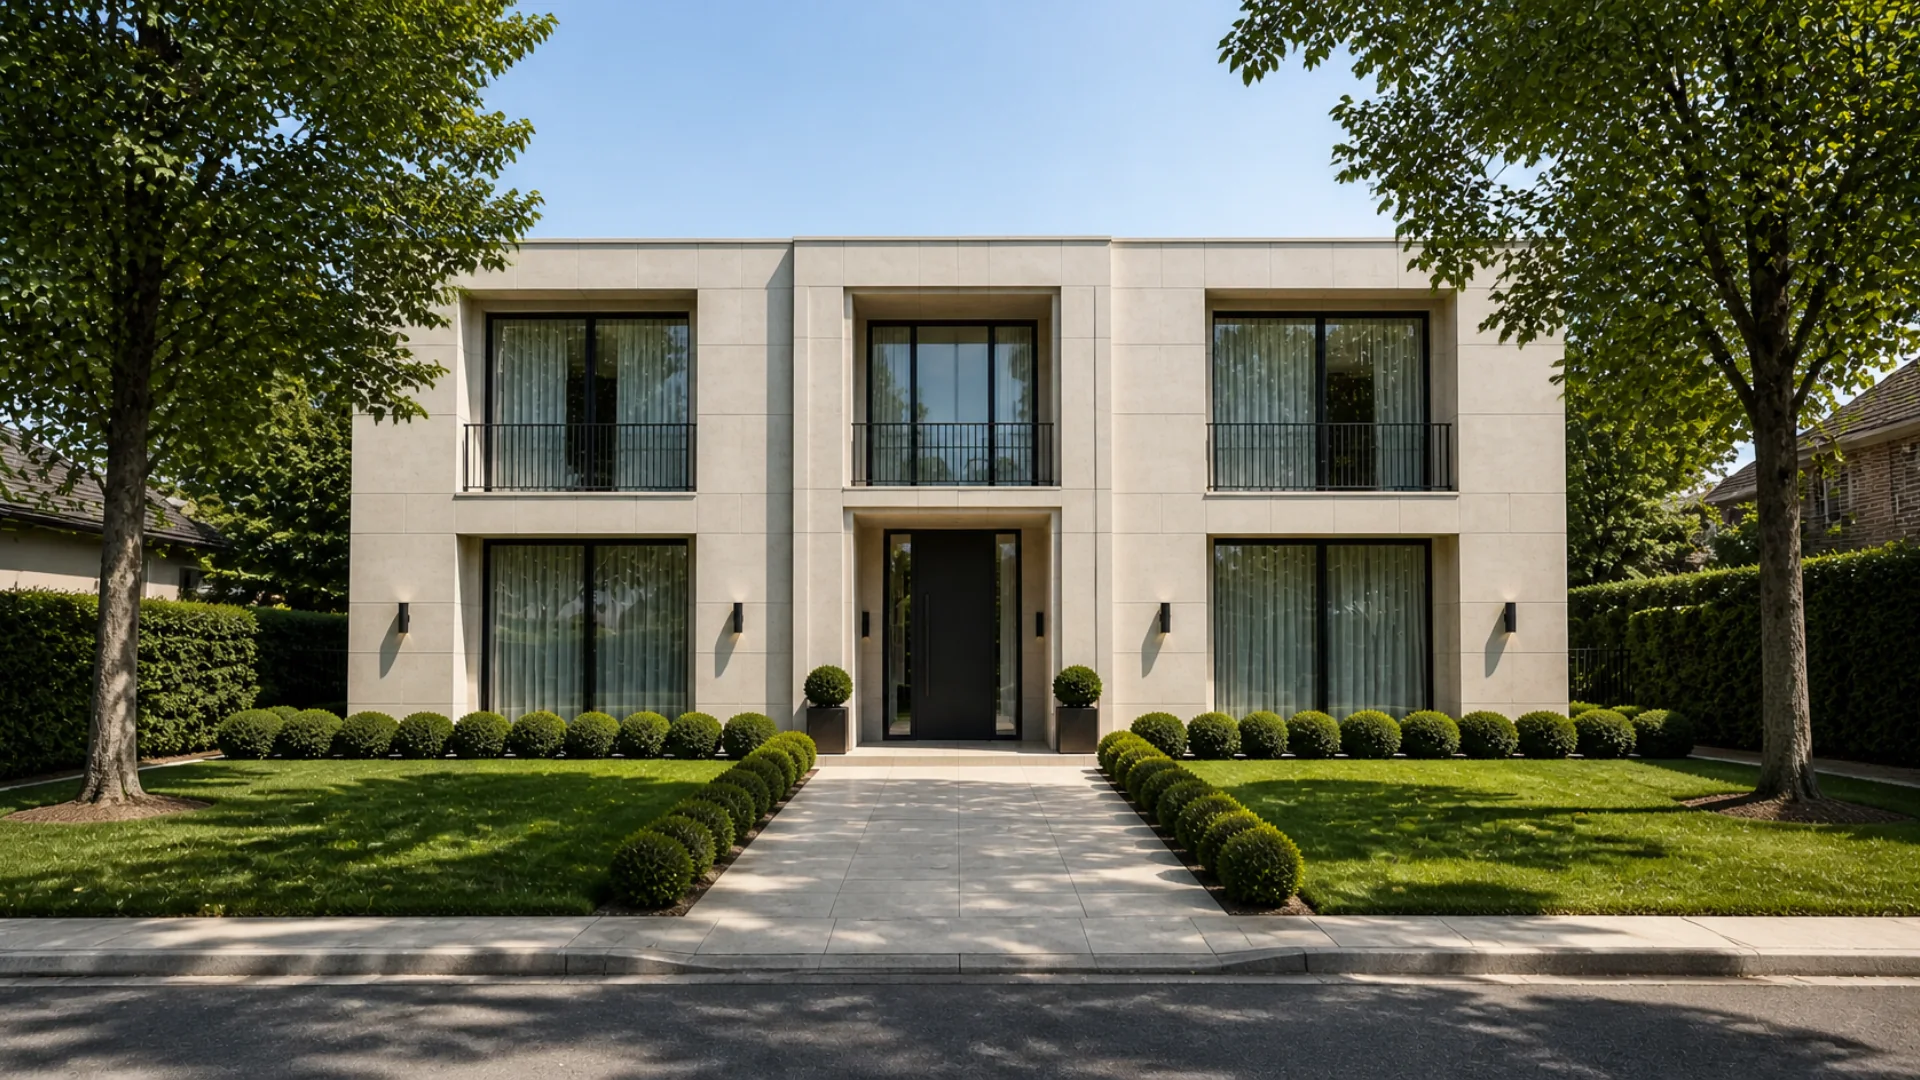
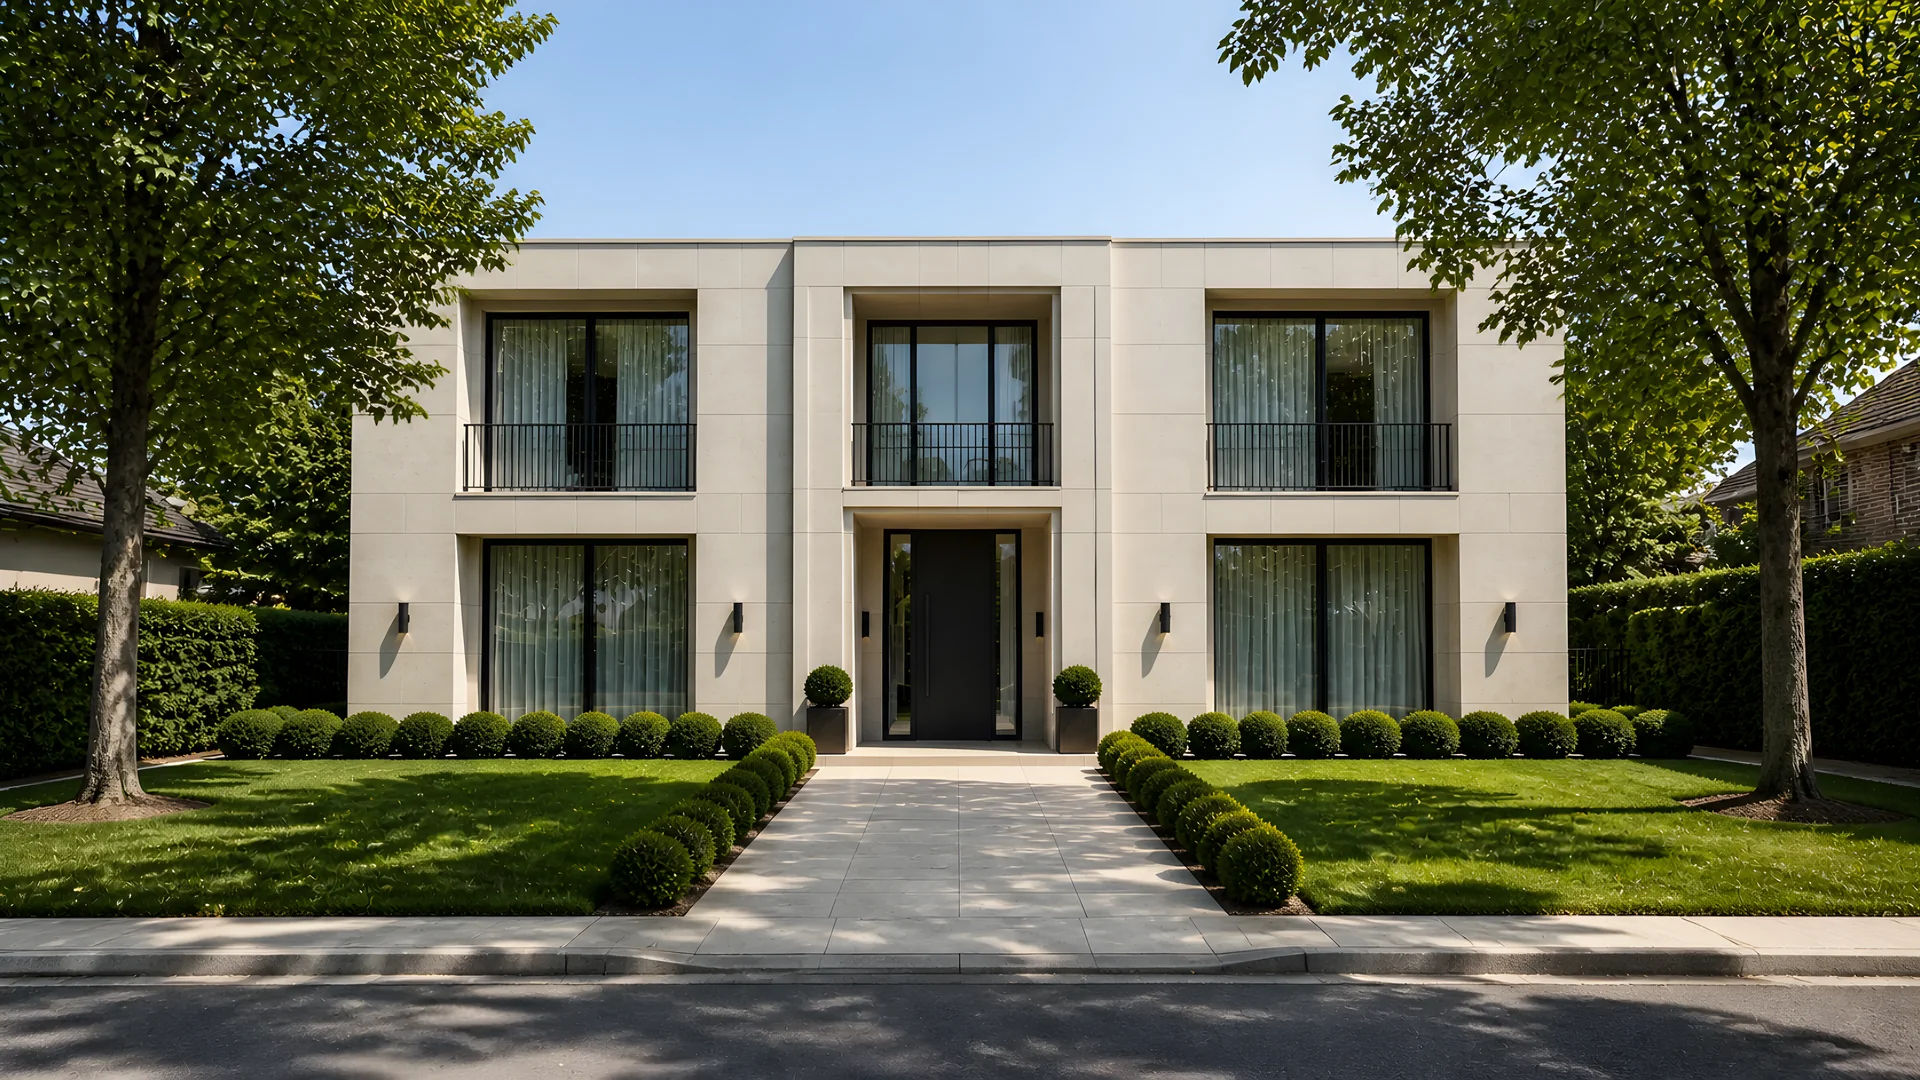
Draw the tour on a canvas from full-size photos, with 4K versions
The photos are now drawn straight from the image files every frame, so
zoomed-in rooms stay as sharp as the file allows. Large and retina screens
also get 3840 px versions, decoded just ahead of the camera. First three
photos re-made from AI 4x upscales; upscaling scripts added under tools.

Claude-Session: https://claude.ai/code/session_015Wjx5fCLrkqoEWFbGrkWdH

diff --git a/assets/journey.js b/assets/journey.js
@@ -64,7 +64,7 @@ const TOUR = {
 
   /* ---------- 1. frame sequence on a canvas ---------- */
   const F = TOUR.frames, useFrames = F && F.count > 0;
-  const canvas = $("tour-canvas"), ctx = canvas && canvas.getContext("2d"), loader = $("tour-loader");
+  const canvas = $("tour-canvas"), ctx = canvas && canvas.getContext("2d", {alpha: false}), loader = $("tour-loader");
   const frames = [];
   let loaded = 0, lastDrawn = -1;
   if (useFrames) {
@@ -89,10 +89,19 @@ const TOUR = {
     };
     for (let k = 0; k < 6; k++) pump();
   }
+  // the stage's own size (100lvh), so phone address bars sliding in and out don't resize anything
+  let VW = innerWidth, VH = innerHeight;
   function sizeCanvas(){
-    if (!useFrames) return;
-    const dpr = Math.min(devicePixelRatio || 1, 2);
-    canvas.width = Math.round(innerWidth * dpr); canvas.height = Math.round(innerHeight * dpr); lastDrawn = -1;
+    if (!useFrames && !useShots) return;
+    const r = canvas.getBoundingClientRect();
+    VW = r.width || innerWidth; VH = r.height || innerHeight;
+    let dpr = Math.min(devicePixelRatio || 1, useShots ? 3 : 2);
+    if (useShots) dpr = Math.min(dpr, Math.sqrt(3840 * 2160 / (VW * VH)));   // no point beyond the photos' own detail
+    const w = Math.round(VW * dpr), h = Math.round(VH * dpr);
+    if (canvas.width !== w || canvas.height !== h) { canvas.width = w; canvas.height = h; lastDrawn = -1; }
+    ctx.imageSmoothingEnabled = true; ctx.imageSmoothingQuality = "high";
+    // big or high-density screens get the 4K photos (name@2x.webp)
+    if (useShots && !want2x && "createImageBitmap" in window && Math.max(w, h * 16 / 9) * 1.3 > 2100) { want2x = true; fetchHi(); }
   }
   function drawFrame(p){
     const want = Math.round(p * (F.count - 1));
@@ -115,31 +124,52 @@ const TOUR = {
   }
 
   /* ---------- 3. photo sets with a moving camera ---------- */
-  const shots = (useFrames || useVideo ? [] : TOUR.shots).map((s, i) => {
-    const wrap = document.createElement("div"); wrap.className = "set";
-    const img = new Image(); img.alt = ""; img.decoding = "async"; img.src = s.src;
-    if (i === 0) img.fetchPriority = "high";
-    wrap.append(img);
+  // Each frame is drawn on a canvas straight from the photo, so a zoomed-in photo is as sharp as the
+  // file allows (CSS-scaled layers can be scaled up from a cached low-resolution copy and look soft).
+  // Every photo is decoded ahead of time (1920 px), so scrolling never waits; on large or high-density
+  // screens the 4K versions are fetched afterwards and decoded just ahead of the camera.
+  const useShots = !useFrames && !useVideo && TOUR.shots.length > 0;
+  if (useShots) canvas.hidden = false;
+  let want2x = false, loLeft = TOUR.shots.length;
+  const toBitmap = async src => {
+    const img = new Image(); img.decoding = "async"; img.src = src;
+    if (src === TOUR.shots[0].src) img.fetchPriority = "high";
+    await img.decode();
+    return window.createImageBitmap ? createImageBitmap(img) : img;
+  };
+  const shots = (useShots ? TOUR.shots : []).map(s => {
     const glows = (s.glows || []).map(g => {
       const el = document.createElement("i"); el.className = "glow" + (g.flicker ? " flicker" : "");
-      el.style.cssText = `left:${g.x * 100}%;top:${g.y * 100}%;--r:${g.r};--c:${g.c}`;
-      wrap.append(el); return el;
+      el.style.setProperty("--c", g.c); shotsEl.append(el); return {...g, el};
     });
-    shotsEl.append(wrap);
-    const shot = {...s, wrap, img, glows, w: 0, h: 0};
-    // decode up front so no frame of the scroll ever waits on an image
-    const ready = () => (img.decode ? img.decode() : Promise.resolve()).catch(() => {}).then(() => { shot.w = img.naturalWidth; shot.h = img.naturalHeight; layout(); render(shown); });
-    if (img.complete && img.naturalWidth) queueMicrotask(ready); else img.addEventListener("load", ready, {once: true});
+    const shot = {...s, glows, w: 0, h: 0, lo: null, hi: null, hiBlob: null, hiBusy: false, near: false};
+    toBitmap(s.src).then(b => {
+      shot.lo = b; shot.w = b.width || b.naturalWidth; shot.h = b.height || b.naturalHeight;
+      layout(); render(shown);
+    }).catch(() => {}).finally(() => { if (--loLeft === 0) fetchHi(); });
     return shot;
   });
+  function fetchHi(){
+    if (!want2x || loLeft > 0) return;                        // the 1920 set always comes first
+    shots.forEach(s => { if (!s.hiBlob) fetch(s.src.replace(/\.webp$/, "@2x.webp")).then(r => r.ok ? r.blob() : null)
+      .then(b => { s.hiBlob = b; sharpen(shown); }).catch(() => {}); });
+  }
+  // keep the 4K version decoded only for the rooms near the camera, to stay light on phones
+  function sharpen(p){
+    shots.forEach(s => {
+      s.near = p > s.from - .1 && p < s.to + .05;
+      if (s.near && s.hiBlob && !s.hi && !s.hiBusy) {
+        s.hiBusy = true;
+        createImageBitmap(s.hiBlob).then(b => { s.hiBusy = false; if (s.near) { s.hi = b; render(shown); } else b.close(); })
+          .catch(() => { s.hiBusy = false; s.hiBlob = null; });
+      } else if (!s.near && s.hi) { s.hi.close(); s.hi = null; }
+    });
+  }
   function layout(){
-    const W = innerWidth, H = innerHeight;
     shots.forEach(s => {
       if (!s.w) return;
-      const c = Math.max(W / s.w, H / s.h);                    // "cover" size at zoom 1
+      const c = Math.max(VW / s.w, VH / s.h);                  // "cover" size at zoom 1
       s.bw = s.w * c; s.bh = s.h * c;
-      s.wrap.style.width = s.bw + "px"; s.wrap.style.height = s.bh + "px";
-      s.glows.forEach(g => { const r = parseFloat(g.style.getPropertyValue("--r")) * s.bw; g.style.width = g.style.height = r * 2 + "px"; g.style.margin = -r + "px 0 0 " + -r + "px"; });
     });
   }
   function camAt(cam, t){
@@ -154,7 +184,7 @@ const TOUR = {
   // sits inside the previous one, like the foyer seen through the front door), so both photos stay
   // locked together through the dissolve; then it eases onto its own path.
   function camFor(s, i, p){
-    const W = innerWidth, H = innerHeight;
+    const W = VW, H = VH;
     // the camera keeps moving through the melt: before/after its range the shot keeps drifting the same way
     const span = s.to - s.from, t = (p - s.from) / span;
     let [x, y, z] = camAt(s.cam, clamp(t));
@@ -174,17 +204,10 @@ const TOUR = {
     x = clamp(x, hw, 1 - hw); y = clamp(y, hh, 1 - hh);
     return (s.cur = [x, y, z]);
   }
-  function placeShot(s, [x, y, z]){
-    const W = innerWidth, H = innerHeight;
-    s.wrap.style.transform = `translate3d(${(W / 2 - x * s.bw * z).toFixed(1)}px,${(H / 2 - y * s.bh * z).toFixed(1)}px,0) scale(${z.toFixed(4)})`;
-  }
-
-  /* ---------- the timeline ---------- */
-  let target = 0, shown = 0;
-  function render(p){
-    if (useFrames) drawFrame(p);
-    else if (useVideo) { if (video.duration && !video.seeking) video.currentTime = p * (video.duration - .05); }
-    else shots.forEach((s, i) => {
+  function drawShots(p){
+    const cw = canvas.width, ch = canvas.height, k = cw / VW, layers = [];
+    if (Math.abs(p - (drawShots.at ?? -1)) > .004) { drawShots.at = p; sharpen(p); }
+    shots.forEach((s, i) => {
       if (!s.bw) { s.cur = null; return; }
       const cam = camFor(s, i, p);
       // each set dissolves in on top of the one before; the one below stays solid until it's covered,
@@ -192,17 +215,39 @@ const TOUR = {
       const fadeIn = i === 0 ? 1 : smooth(seg(p, s.from, s.from + OVERLAP));
       const next = shots[i + 1], covering = next ? seg(p, next.from, next.from + OVERLAP) : 0;
       const o = covering >= 1 ? 0 : fadeIn;
-      s.wrap.style.opacity = o.toFixed(3);
-      s.wrap.style.visibility = o > .001 ? "visible" : "hidden";
-      if (o > .001) placeShot(s, cam);
-      // the outgoing set softens as you move past it, so the hand-off reads as motion, not a cut
-      const soft = reduce || s.seamlessOut ? 0 : covering * 5;
-      s.img.style.filter = soft > .2 ? `blur(${soft.toFixed(1)}px)` : "";
+      if (o > .001) layers.push([s, cam, o]);
       if (s.glows.length) {
-        const lights = smooth(seg(p, .87, .99));
-        s.glows.forEach(g => g.style.opacity = lights.toFixed(3));
+        const [x, y, z] = cam, lights = smooth(seg(p, .87, .99)) * o;
+        s.glows.forEach(g => {
+          g.el.style.opacity = lights.toFixed(3);
+          if (lights > .001) {
+            const r = g.r * s.bw * z, cx = VW / 2 + (g.x - x) * s.bw * z, cy = VH / 2 + (g.y - y) * s.bh * z;
+            g.el.style.transform = `translate3d(${(cx - 200).toFixed(1)}px,${(cy - 200).toFixed(1)}px,0) scale(${(r / 200).toFixed(3)})`;
+          }
+        });
       }
     });
+    // start from the top-most solid layer: nothing beneath it can show
+    let first = 0; layers.forEach(([, , o], j) => { if (o >= .999) first = j; });
+    if (!layers.length || layers[first][2] < .999) { ctx.globalAlpha = 1; ctx.fillStyle = "#d9cfc1"; ctx.fillRect(0, 0, cw, ch); }
+    for (const [s, [x, y, z], o] of layers.slice(first)) {
+      const src = s.hi || s.lo, iw = src.width || src.naturalWidth, ih = src.height || src.naturalHeight;
+      const dw = s.bw * z * k, dh = s.bh * z * k, dx = (VW / 2 - x * s.bw * z) * k, dy = (VH / 2 - y * s.bh * z) * k;
+      // only the part of the photo that's on screen
+      const sx = Math.max(0, -dx / dw * iw), sy = Math.max(0, -dy / dh * ih);
+      const sw = Math.min(iw - sx, cw / dw * iw), sh = Math.min(ih - sy, ch / dh * ih);
+      ctx.globalAlpha = o;
+      ctx.drawImage(src, sx, sy, sw, sh, dx + sx / iw * dw, dy + sy / ih * dh, sw / iw * dw, sh / ih * dh);
+    }
+    ctx.globalAlpha = 1;
+  }
+
+  /* ---------- the timeline ---------- */
+  let target = 0, shown = 0;
+  function render(p){
+    if (useFrames) drawFrame(p);
+    else if (useVideo) { if (video.duration && !video.seeking) video.currentTime = p * (video.duration - .05); }
+    else drawShots(p);
 
     // daylight: a bright sun to start, warming through the afternoon, a sunset sky over the backyard
     if (!useFrames && !useVideo) {

diff --git a/assets/journey.css b/assets/journey.css
@@ -9,12 +9,9 @@ header.top.fixed{position:fixed;inset:0 0 auto 0;z-index:20;border:0;padding-inl
 .journey{position:relative;height:1300vh}
 .stage{position:sticky;top:0;height:100vh;height:100lvh;overflow:hidden;background:#d9cfc1}
 
-/* photo sets: sized and moved by journey.js */
-.shots{position:absolute;inset:0;overflow:hidden}
-.set{position:absolute;left:0;top:0;transform-origin:0 0;will-change:transform,opacity;backface-visibility:hidden;opacity:0}
-.set:first-child{opacity:1}
-.set img{display:block;width:100%;height:100%;max-width:none;user-select:none}
-.glow{position:absolute;border-radius:50%;opacity:0;pointer-events:none;mix-blend-mode:screen;
+/* the photos are drawn on the canvas by journey.js; garden lights sit on top, placed to match the camera */
+.shots{position:absolute;inset:0;overflow:hidden;pointer-events:none}
+.glow{position:absolute;left:0;top:0;width:400px;height:400px;border-radius:50%;opacity:0;pointer-events:none;mix-blend-mode:screen;will-change:transform,opacity;
   background:radial-gradient(circle,rgba(var(--c),.75) 0%,rgba(var(--c),.28) 32%,rgba(var(--c),0) 70%)}
 @media (prefers-reduced-motion:no-preference){.glow.flicker{animation:flicker 1.6s ease-in-out infinite alternate}}
 @keyframes flicker{0%{filter:brightness(1)}35%{filter:brightness(1.25)}60%{filter:brightness(.92)}100%{filter:brightness(1.15)}}

diff --git a/index.html b/index.html
@@ -35,8 +35,8 @@
 <main class="journey" id="journey">
   <!-- The stage: real photos of a home (or a walk-through video, see TOUR in assets/journey.js), driven by scroll -->
   <div class="stage" aria-hidden="true">
-    <div class="shots" id="shots"></div>
     <canvas class="tour-canvas" id="tour-canvas" hidden></canvas>
+    <div class="shots" id="shots"></div>
     <video class="tour-video" id="tour-video" muted playsinline preload="auto" hidden></video>
     <div class="sun" id="sun"></div>
     <div class="grade" id="grade"></div>

diff --git a/tools/upscale/esrgan_upscale.py b/tools/upscale/esrgan_upscale.py
@@ -1,0 +1,43 @@
+"""Real-ESRGAN x4plus on the CPU with ncnn, tiled. Usage: python esrgan_upscale.py MODEL_DIR IN OUT [out_width]
+Needs: pip install ncnn numpy pillow, and realesrgan-x4plus.param/.bin in MODEL_DIR (from the Real-ESRGAN ncnn release)."""
+import sys, time
+import numpy as np
+import ncnn
+from PIL import Image
+
+mdir, src, dst = sys.argv[1], sys.argv[2], sys.argv[3]
+out_w = int(sys.argv[4]) if len(sys.argv) > 4 else 0
+net = ncnn.Net()
+net.opt.use_vulkan_compute = False
+net.opt.num_threads = 4
+net.load_param(f"{mdir}/realesrgan-x4plus.param")
+net.load_model(f"{mdir}/realesrgan-x4plus.bin")
+
+img = np.asarray(Image.open(src).convert("RGB")).astype(np.float32) / 255.0
+H, W, _ = img.shape
+S, T, P = 4, 192, 12           # scale, tile, padding
+out = np.zeros((H * S, W * S, 3), np.float32)
+t0 = time.time(); n = 0
+tiles = [(y, x) for y in range(0, H, T) for x in range(0, W, T)]
+for y, x in tiles:
+    y0, x0 = max(y - P, 0), max(x - P, 0)
+    y1, x1 = min(y + T + P, H), min(x + T + P, W)
+    tile = np.ascontiguousarray(img[y0:y1, x0:x1].transpose(2, 0, 1))
+    ex = net.create_extractor()
+    ex.input("data", ncnn.Mat(tile))
+    _, o = ex.extract("output")
+    o = np.array(o).transpose(1, 2, 0)
+    ty, tx = (y - y0) * S, (x - x0) * S
+    hh, ww = min(T, H - y) * S, min(T, W - x) * S
+    out[y * S:y * S + hh, x * S:x * S + ww] = o[ty:ty + hh, tx:tx + ww]
+    n += 1
+    if n == 1 or n % 20 == 0:
+        print(f"{n}/{len(tiles)} tiles, {time.time() - t0:.0f}s", flush=True)
+res = Image.fromarray((np.clip(out, 0, 1) * 255 + .5).astype(np.uint8))
+if out_w:
+    size = (out_w, round(res.height * out_w / res.width))
+    res = res.resize(size, Image.LANCZOS)
+    # keep a little of the original's natural grain so surfaces don't look painted
+    res = Image.blend(res, Image.open(src).convert("RGB").resize(size, Image.BICUBIC), .1)
+res.save(dst)
+print("done", dst, res.size, f"{time.time() - t0:.0f}s", flush=True)

diff --git a/tools/upscale/make_tour_images.py b/tools/upscale/make_tour_images.py
@@ -1,0 +1,22 @@
+"""Make the tour webps from the 4K upscales: name@2x.webp (3840) and name.webp (1920, downscaled from 4K).
+Usage: python make_tour_images.py UP4K_DIR REPO_DIR [N ...]   (UP4K_DIR holds 1.png ... 8.png from esrgan_upscale.py at 3840 wide)"""
+import sys, os, importlib.util
+from PIL import Image
+up, repo = sys.argv[1], sys.argv[2]
+which = [int(a) for a in sys.argv[3:]] or list(range(1, 9))
+names = ["01-front", "02-door", "03-door-open", "04-foyer", "05-open-concept", "06-back-door", "07-back-door-open", "08-backyard"]
+out = os.path.join(repo, "assets/tour")
+spec = importlib.util.spec_from_file_location("cd", os.path.join(repo, "tools/compose-doorway.py")); cd = importlib.util.module_from_spec(spec); spec.loader.exec_module(cd)
+for i in which:
+    n = names[i - 1]
+    if n == "03-door-open":
+        tmp = os.path.join(up, "3-composite.png")
+        cd.compose(os.path.join(up, "3.png"), os.path.join(up, "4.png"), tmp, 3840)
+        im = Image.open(tmp).convert("RGB")
+    else:
+        im = Image.open(os.path.join(up, f"{i}.png")).convert("RGB")
+    assert im.width == 3840, (n, im.size)
+    im.save(os.path.join(out, n + "@2x.webp"), quality=80, method=6)
+    lo = im.resize((1920, round(im.height * 1920 / im.width)), Image.LANCZOS)
+    lo.save(os.path.join(out, n + ".webp"), quality=84, method=6)
+    print(n, os.path.getsize(os.path.join(out, n + "@2x.webp")) // 1024, "KB @2x,", os.path.getsize(os.path.join(out, n + ".webp")) // 1024, "KB 1x")

diff --git a/README.md b/README.md
@@ -19,5 +19,9 @@ The contact form and the home-search sign-up use **Netlify Forms**. Submissions 
 ## Home page scroll tour
 `assets/journey.js` drives the home page: one continuous camera move through one house, from the front in full sun, through the front door into the foyer and the open-concept living space, out the back glass doors to the backyard at sunset as the lights come on.
 - Now: eight AI-generated photos of one house (made in Canva) in `assets/tour/01-front.webp` ... `08-backyard.webp` (`TOUR.shots`). The front door and the back doors open in place as you scroll.
-- The view through the open front door is the foyer photo itself, set in with `tools/compose-doorway.py`, so walking through the door lines up exactly. Re-run it if you replace `03` or `04`.
+- Each photo comes in two sizes: `name.webp` (1920 px) loads first for everyone, and `name@2x.webp` (3840 px) is added on large and retina screens. Both are made from AI 4x upscales (`tools/upscale/esrgan_upscale.py`, then `tools/upscale/make_tour_images.py`). The tour is drawn on a canvas straight from these files, so zoomed-in rooms stay crisp.
+- The view through the open front door is the foyer photo itself, set in with `tools/compose-doorway.py` (`make_tour_images.py` does this for you), so walking through the door lines up exactly. Re-run it if you replace `03` or `04`.
 - Later: a walk-through video. Cut it into frames with `tools/make-tour-frames.sh` and set `TOUR.frames.count` for a fully seamless, preloaded tour.
+
+## Logo
+GH monogram. Files in `assets/brand/` (`logo.svg` for the header, `logo-full.svg` with "Real estate", dark versions, app icons) and `/favicon.svg`. All are drawn by `tools/logo/build_logo.py` from the Inter typeface; it also draws the other GH options (house, doorway, solid).
